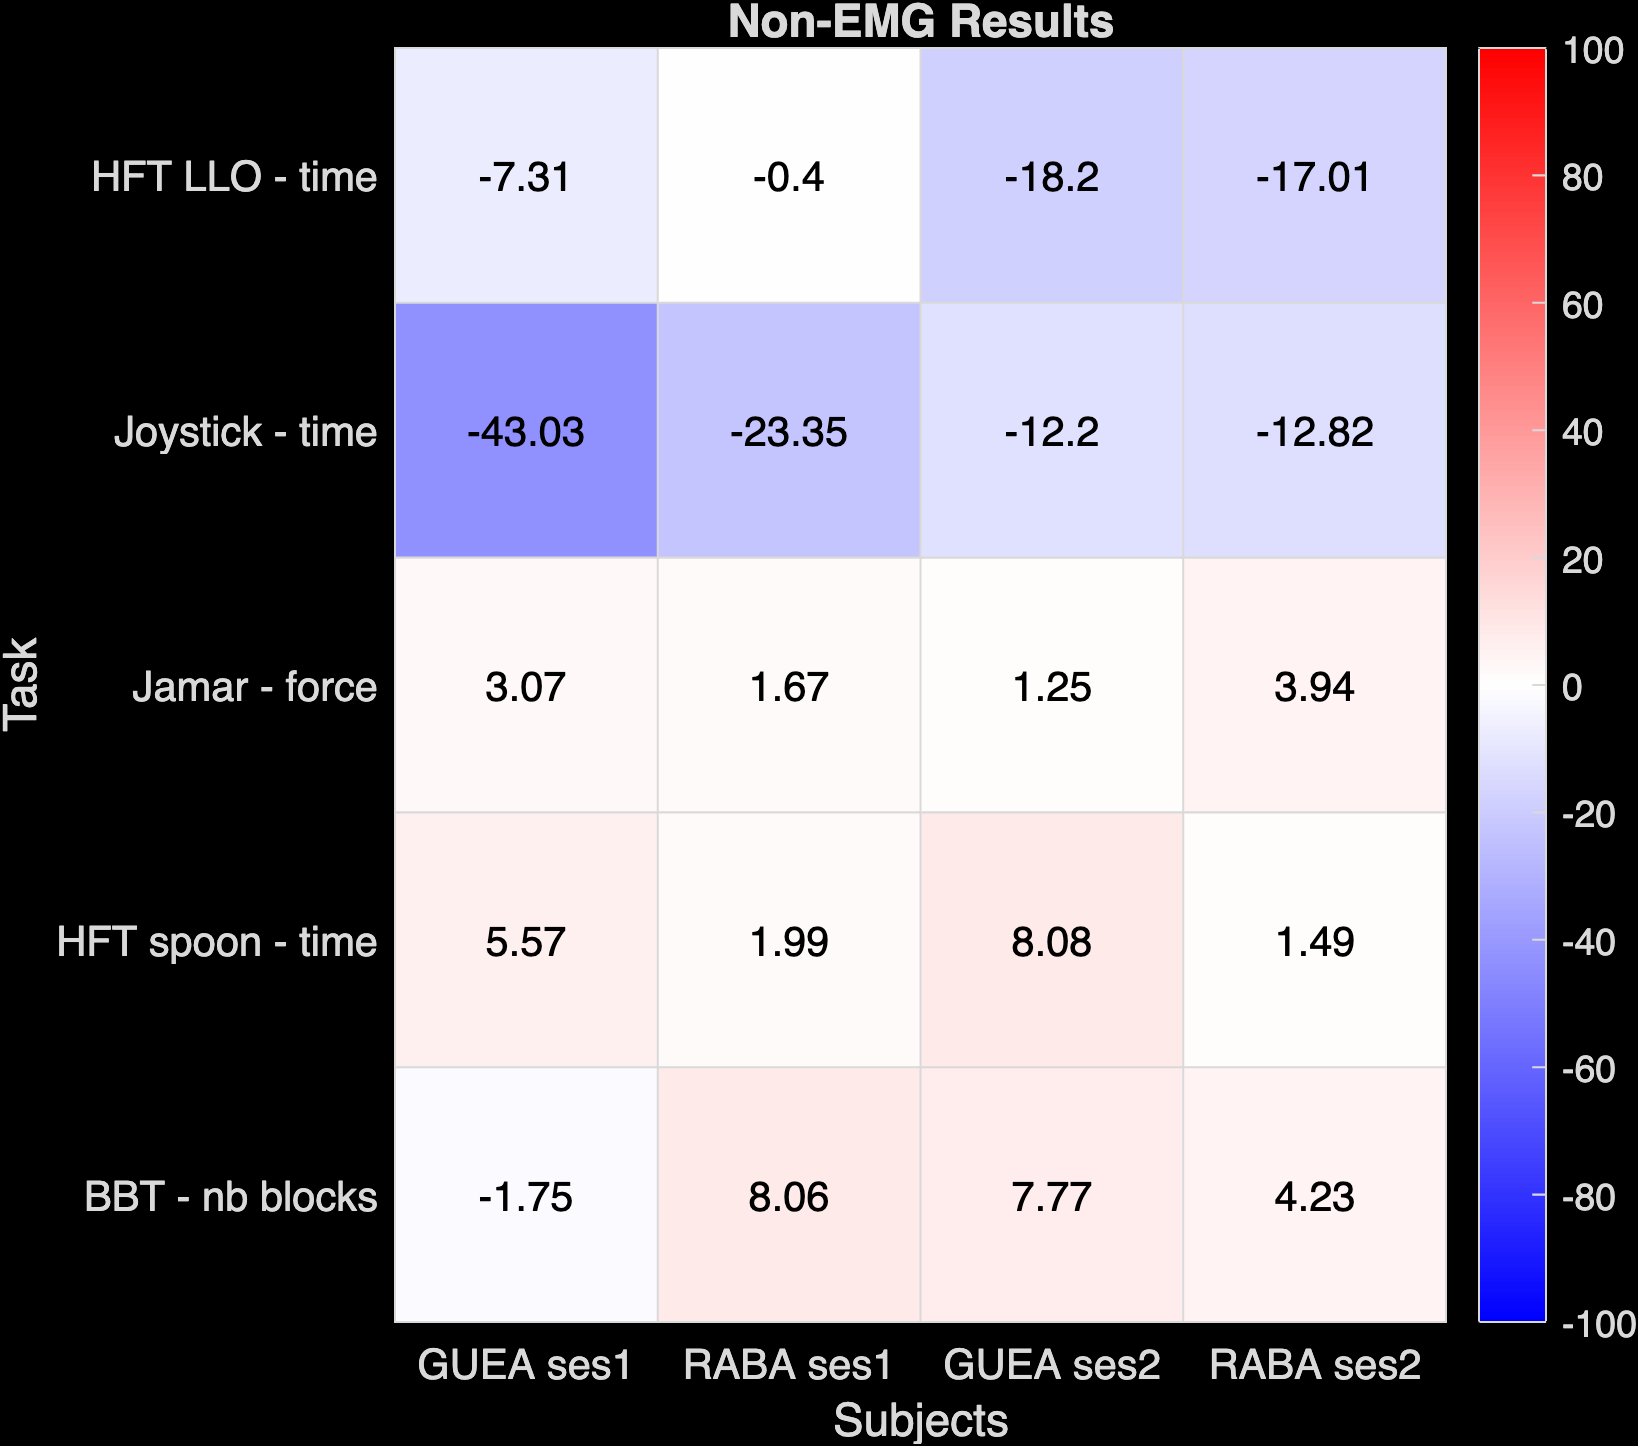
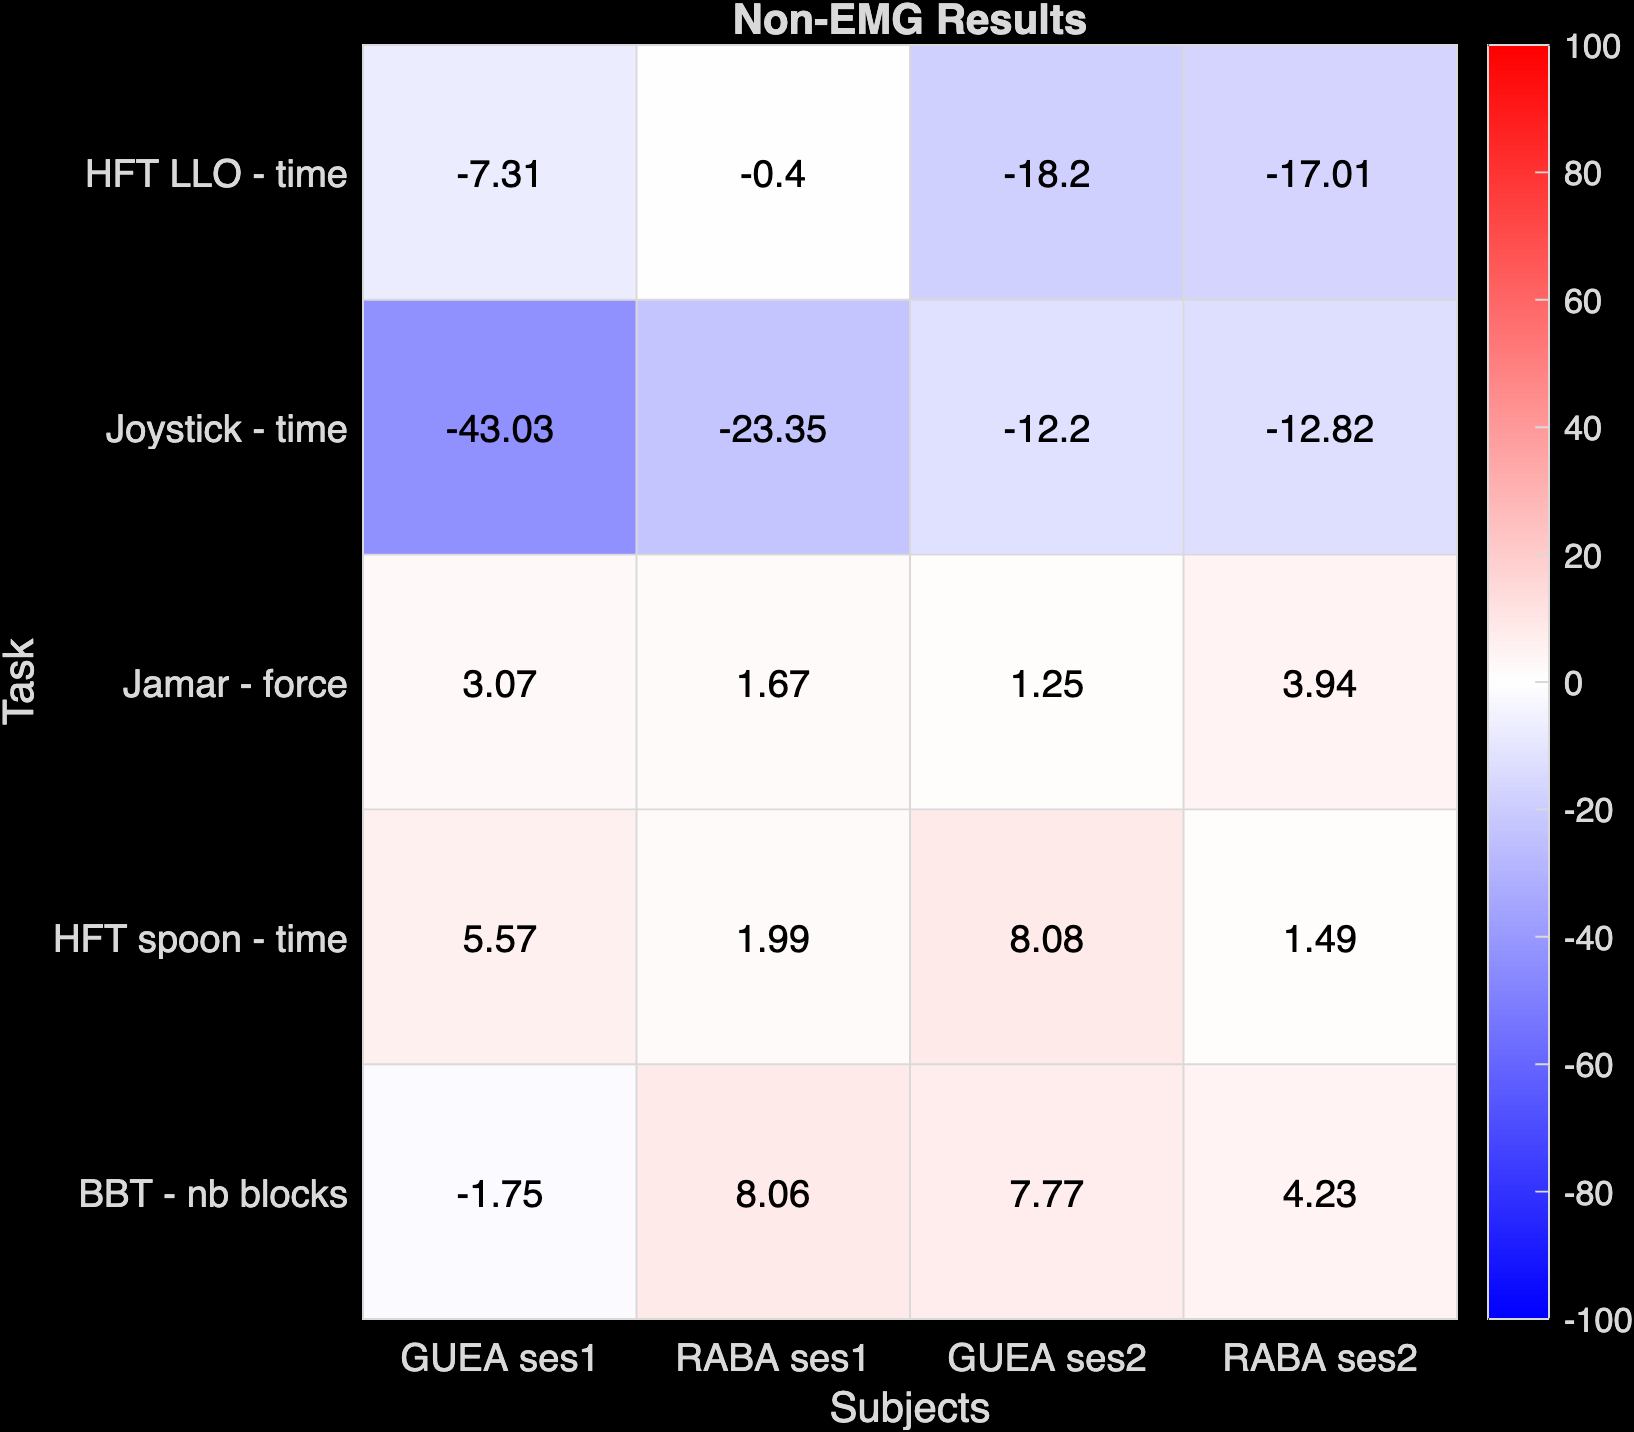
Keep heatmaps y labels only on first subplot

diff --git a/src/heatmaps/heatmap_meanAct_diff.m b/src/heatmaps/heatmap_meanAct_diff.m
@@ -39,8 +39,8 @@ end
 
 % -------- FIGURE --------
 fig = figure('Visible','off');
-fig.Position(3:4) = [1250 500];
-t = tiledlayout(1,length(data_vars),TileSpacing="compact",Padding="compact");
+fig.Position(3:4) = [1100 500];
+t = tiledlayout(1,length(data_vars));
 
 % Loop over all columns
 for i = 1:length(data_vars)
@@ -55,6 +55,11 @@ for i = 1:length(data_vars)
     h.Title = strrep(data_vars{i}, "_", " ");
     h.XLabel = ' ';
     h.YLabel = ' ';
+
+    % Show y-axis labels only on the first subplot
+    if i ~= 1
+        h.YDisplayLabels = repmat("", size(h.YDisplayLabels));
+    end
 
     % Only one colorbar
     if i ~= length(data_vars)

diff --git a/src/heatmaps/heatmap_CAI_diff.m b/src/heatmaps/heatmap_CAI_diff.m
@@ -39,8 +39,8 @@ end
 
 % -------- FIGURE --------
 fig = figure('Visible', 'off');
-fig.Position(3:4) = [900 500];
-t = tiledlayout(1,4,TileSpacing="compact",Padding="compact");
+fig.Position(3:4) = [700 500];
+t = tiledlayout(1,4);
 
 % Loop over all columns (assumes 4)
 for i = 1:length(data_vars)
@@ -55,6 +55,11 @@ for i = 1:length(data_vars)
     h.Title = strrep(data_vars{i}, "_", " ");
     h.XLabel = ' ';
     h.YLabel = ' ';
+
+    % Show y-axis labels only on the first subplot
+    if i ~= 1
+        h.YDisplayLabels = repmat("", size(h.YDisplayLabels));
+    end
 
     % Keep only ONE colorbar (last plot)
     if i ~= length(data_vars)
